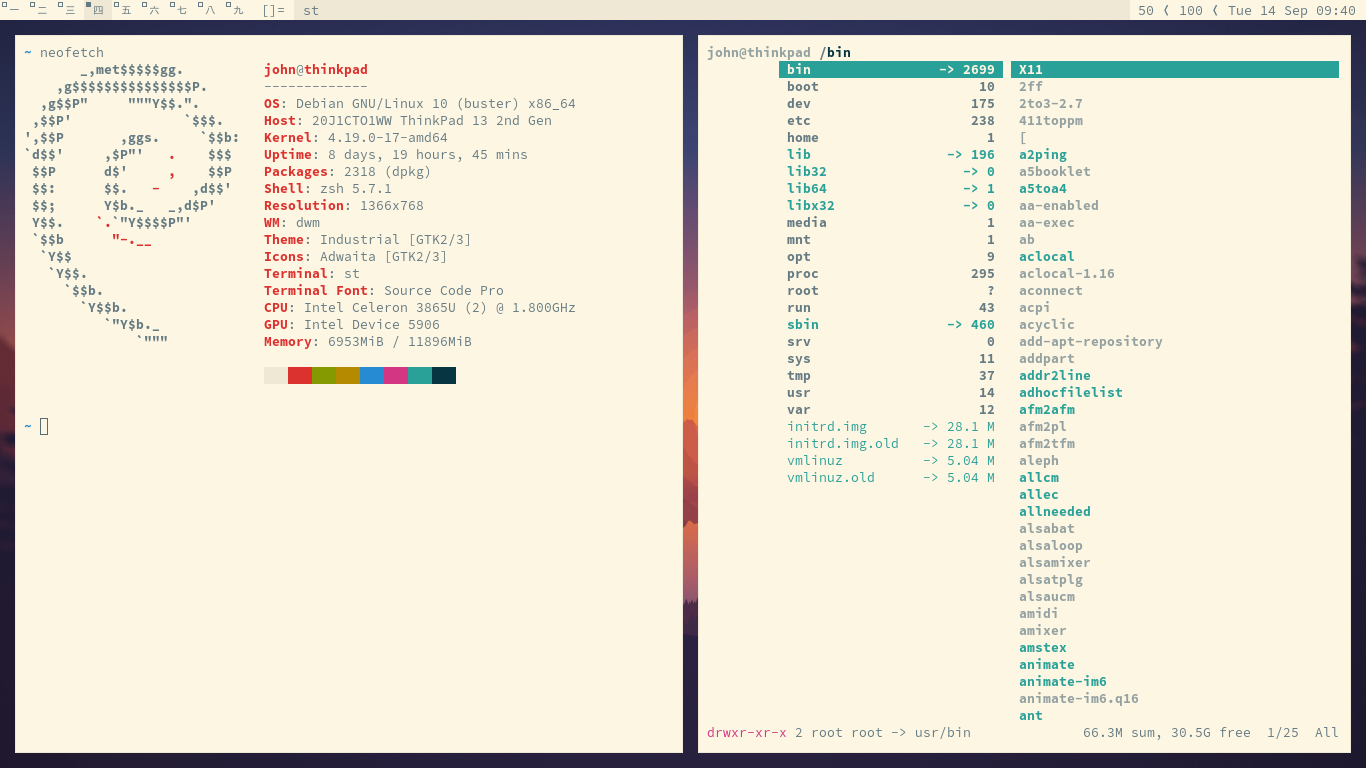
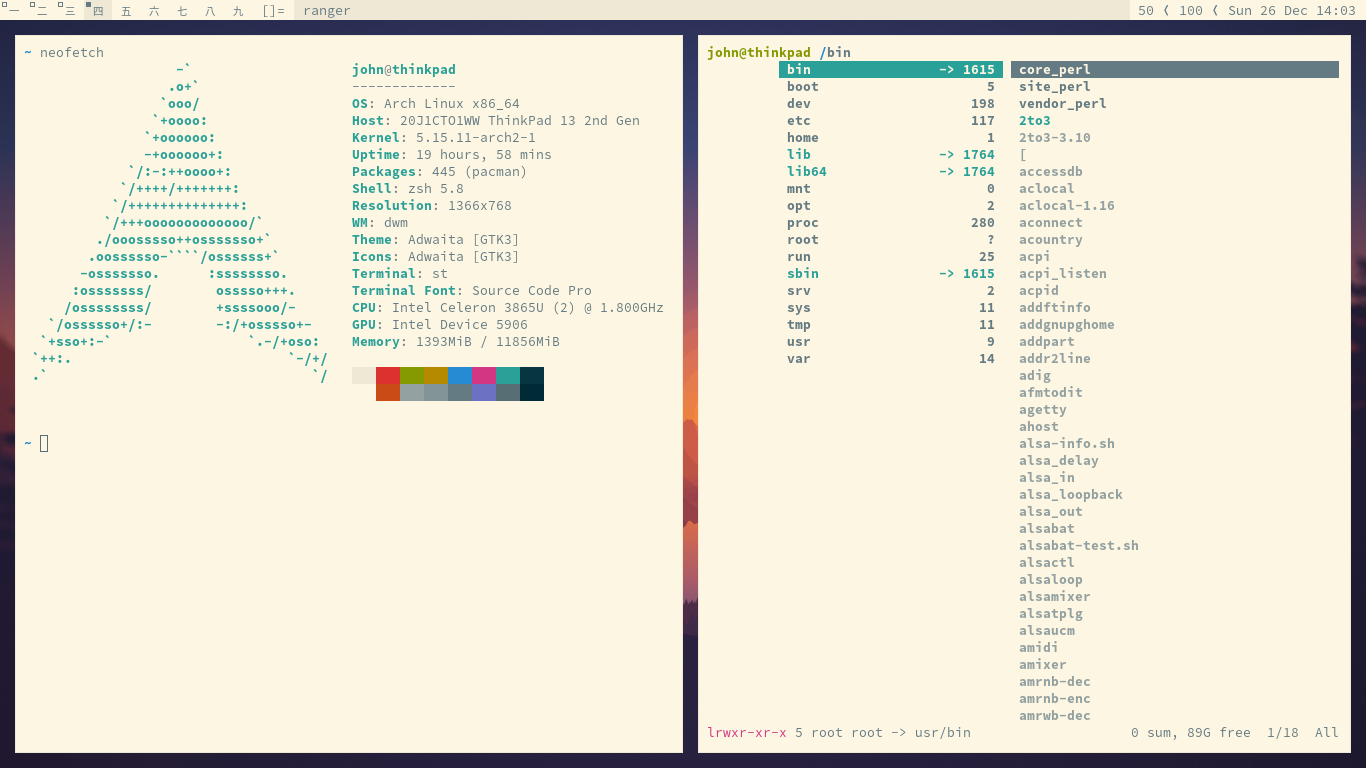
Update README after switching to Arch
Also, fix a small bug since I changed the layout order without updating
the keys for switching to a particular layout.

diff --git a/dwm/config.h b/dwm/config.h
@@ -81,8 +81,8 @@ static Key keys[] = {
 	{ MODKEY,                       XK_Tab,    view,           {0} },
 	{ MODKEY|ShiftMask,             XK_c,      killclient,     {0} },
 	{ MODKEY,                       XK_t,      setlayout,      {.v = &layouts[0]} },
-	{ MODKEY,                       XK_f,      setlayout,      {.v = &layouts[1]} },
-	{ MODKEY,                       XK_m,      setlayout,      {.v = &layouts[2]} },
+	{ MODKEY,                       XK_f,      setlayout,      {.v = &layouts[2]} },
+	{ MODKEY,                       XK_m,      setlayout,      {.v = &layouts[1]} },
 	{ MODKEY,                       XK_space,  setlayout,      {0} },
 	{ MODKEY|ShiftMask,             XK_space,  togglefloating, {0} },
 	{ MODKEY,                       XK_0,      view,           {.ui = ~0 } },

diff --git a/README.md b/README.md
@@ -10,34 +10,40 @@ MacBook Air (2020): macOS, zsh, nvim, Amethyst, iTerm2
 
 ## Goals
 
-My hardware, operating systems, and the tools that run on them are carefully
-chosen.
+My setup is carefully chosen.
 
-- They must be **lightweight** since I tend to keep my devices for a long time.
-- They must **maximize workflow** without getting in the way.
-- They must **use screen space efficiently** since I have small laptops and
-  don't usually use a monitor, instead keeping the laptop on a stand with
-  keyboard and mouse.
+- It's **lightweight**, both digitally, since I tend to keep my devices for a
+  long time, and physically, since I travel often.
+- It **maximizes workflow** without getting in the way.
+- It **uses screen space efficiently** since I have small laptops and don't
+  usually use a monitor, instead keeping the laptop on a stand with keyboard
+  and mouse.
 
 > Tools should be ambient. It disappears and flows through your actions. You
 > should never need it because it's always at your hands. You should never
 > ignore it because it's never in your way. —[Hunor Karamán](https://hex22.org/wiki/manifesto/)
 
-## Non-goals
+## dwm
 
-- Photo shoots
-- Changing the setup every few months. I prefer to have something that fits my
-  workflow and gives me the freedom to focus on bigger ideas.
+For my Linux machine, I use a tiling window manager called dwm. It's mostly
+stock except for the following patches:
+
+- [fullgaps](https://dwm.suckless.org/patches/fullgaps/) - I added a shortcut to reset the gaps.
+- [solarized](https://github.com/johnjago/dotfiles/blob/main/dwm/patches/dwm-solarized-6.2.diff) - This is my own patch that changes a few colors, including dmenu colors, to match Solarized Light.
+- Font is set to Source Code Pro (though I could probably do this with fontconfig)
+- The tags numbers are in CJK characters
+- Firefox doesn't stick to the 9th tag
+- The default window split is 50/50 instead of 55/45
+- Monocle layout is second instead of third
+- Keyboard shortcuts for changing brightness ("Windows" key + up/down) and
+  audio (alt + up/down) without having to reach for the multimedia keys
+- Keyboard shortcut for locking the screen with slock ("Windows" key + l)
 
 ## Screenshots
 
 ### Linux
 
-(New screenshots of Arch coming soon! It looks the same though.)
-
 The typeface in the terminal, status bar, and code editor is Source Code Pro.
-
-Sorry, I had a lot of stuff open while taking these.
 
 ![](screenshots/linux-1.png)
 
